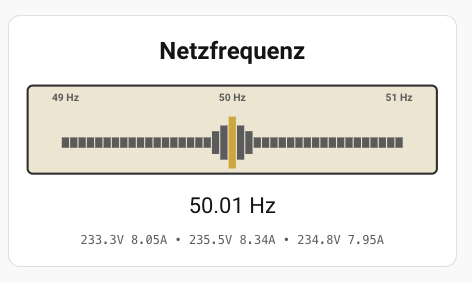
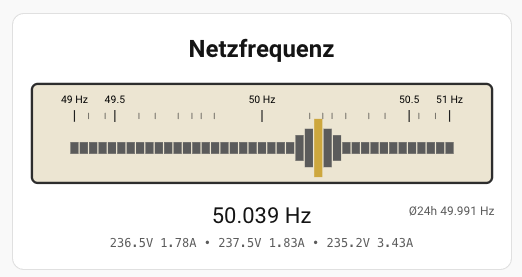
v0.4.3 add 24h frequency average display

diff --git a/reed-frequency-card.js b/reed-frequency-card.js
@@ -10,6 +10,12 @@
     - Einschwing-/Ausschwinganimation der Resonanz
 
  Changelog
+   v0.4.3
+    - 24h Mittelwert der Netzfrequenz als Referenzanzeige ergänzt
+    - Neue Konfigurationsoption average_entity hinzugefügt
+    - Aktuelle Frequenz bleibt mittig ausgerichtet
+    - 24h Durchschnitt rechtsbündig auf gleicher Höhe dargestellt
+    - Anzeige von Livewert und Mittelwert optisch harmonisiert
   v0.4.2
     - kleinere Fehlerkorrekturen
   v0.4.1
@@ -81,7 +87,7 @@
 ====================================================
 */
 
-const VERSION = "0.4.2";
+const VERSION = "0.4.3";
 
 /******************************************************************************
  * Frequenzbereich
@@ -182,11 +188,20 @@ class ReedFrequencyCard extends HTMLElement {
       throw new Error("show_phase_values muss true oder false sein!");
     }
 
+    if (
+      config.show_average !== undefined &&
+      typeof config.show_average !== "boolean"
+    ) {
+      throw new Error("show_average muss true oder false sein!");
+    }
+
     this.config = {
       title: "Netzfrequenz",
 
       show_version: true,
       show_phase_values: false,
+      average_entity: null,
+      show_average: true,
 
       voltage_l1: null,
       current_l1: null,
@@ -208,6 +223,20 @@ class ReedFrequencyCard extends HTMLElement {
   }
 
   renderCard(freq, hass) {
+    let avgFreq = null;
+
+    if (this.config.average_entity) {
+      const avgState = hass.states[this.config.average_entity];
+
+      if (avgState) {
+        const value = parseFloat(avgState.state);
+
+        if (!isNaN(value)) {
+          avgFreq = value;
+        }
+      }
+    }
+
     this.shadowRoot.innerHTML = `
       <style>
 
@@ -227,9 +256,25 @@ class ReedFrequencyCard extends HTMLElement {
         }
 
         .value{
-          text-align:center;
-          font-size:22px;
+          position:relative;
           margin-top:12px;
+          height:28px;
+        }
+
+        .current-frequency{
+          position:absolute;
+          left:50%;
+          transform:translateX(-50%);
+          font-size:22px;
+        }
+
+        .average-frequency{
+          position:absolute;
+          right:0;
+          top:50%;
+          transform:translateY(-50%);
+          font-size:12px;
+          color:#666666;
         }
 
         .phase-values{
@@ -258,7 +303,21 @@ class ReedFrequencyCard extends HTMLElement {
         ${this.renderInstrument(freq)}
 
         <div class="value">
-          ${freq.toFixed(3)} Hz
+
+          <span class="current-frequency">
+            ${freq.toFixed(3)} Hz
+          </span>
+
+        ${
+          this.config.show_average && avgFreq !== null
+            ? `
+          <span class="average-frequency">
+            Ø24h ${avgFreq.toFixed(3)} Hz
+          </span>
+          `
+            : ""
+        }
+
         </div>
         
         ${

diff --git a/README.md b/README.md
@@ -10,7 +10,7 @@ Analoges Reed Frequency Meter für Home Assistant zur Visualisierung der europä
 
 ## Status
 
-✅ Erste stabile Version (0.4.0)
+✅ Aktuelle Version: 0.4.3
 
 ---
 
@@ -18,74 +18,54 @@ Analoges Reed Frequency Meter für Home Assistant zur Visualisierung der europä
 
 Die **Reed Frequency Card** visualisiert die Netzfrequenz des europäischen Stromnetzes in Anlehnung an ein klassisches Reed Frequency Meter (Zungenfrequenzmesser).
 
-Die Resonanz der 41 Frequenzzungen wird als SVG-Grafik dargestellt. Die aktuell angeregte Zunge wird abhängig von der gemessenen Netzfrequenz hervorgehoben. Zusätzlich wird die Frequenz digital angezeigt.
+Die Resonanz der 41 Frequenzzungen wird als SVG-Grafik dargestellt. Die aktuell angeregte Zunge wird abhängig von der gemessenen Netzfrequenz hervorgehoben. Zusätzlich wird die Frequenz digital mit drei Nachkommastellen angezeigt.
+
+Die Skala ist für den Bereich 49 bis 51 Hz nichtlinear ausgeführt und bietet eine erhöhte Auflösung im Bereich um 50 Hz.
 
 Optional können die Spannungen und Ströme aller drei Netzphasen eingeblendet werden.
 
----
-
-## Technische Voraussetzungen
-
-- Home Assistant
-- HACS
-- SENEC Home V3 (getestet)
-- ABB EnFluRi Netzsensor (getestet)
-
-Aktuell werden folgende Sensoren verwendet:
-
-- Netzfrequenz
-- Spannung L1 / L2 / L3
-- Strom L1 / L2 / L3
+Zusätzlich kann ein 24-Stunden-Mittelwert der Netzfrequenz als Referenzwert angezeigt werden.
 
 ---
 
-## Datenquelle Netzfrequenz
+## 24h Mittelwert der Netzfrequenz
 
-Die aktuelle Netzfrequenz wird über die öffentliche API von **Netzfrequenzmessung.de** bezogen.
+Für die Anzeige des 24-Stunden-Mittelwertes wird ein Home-Assistant Statistik-Sensor verwendet.
 
-Die Messwerte werden als gleitender 3-Sekunden-Mittelwert bereitgestellt und alle drei Sekunden aktualisiert.
+Der Statistik-Sensor berechnet den linearen Durchschnitt der letzten 24 Stunden der Netzfrequenz.
 
-**API:**
+### Statistik-Helfer anlegen
 
-https://dat.netzfrequenzmessung.de:9080/frequenz.xml
+In Home Assistant:
 
-Die API liefert die Frequenz im XML-Format:
+**Einstellungen → Geräte & Dienste → Helfer → Helfer erstellen → Statistik**
 
-```xml
-<r>
-  <f>50.003</f>
-  <z>2026-08-12T07:45:18+00:00</z>
-</r>
+Einstellungen:
+
+| Einstellung | Wert |
+| --- | --- |
+| Name | Netzfrequenz Mittelwert 24h |
+| Entität | Netzfrequenz API |
+| Statistikmerkmal | Linearer Durchschnitt |
+| Stichprobengröße | 28800 |
+| Maximalalter | 24:00:00 |
+| Letzten Messwert behalten | deaktiviert |
+| Genauigkeit | 3 |
+
+Dadurch entsteht die Entität:
+
+```text
+sensor.netzfrequenz_mittelwert_24h
 ```
 
-Die Einbindung in Home Assistant erfolgt über einen REST-Sensor.
-
----
-
-## Home Assistant REST-Sensor
+Diese wird über `average_entity` in der Karte eingebunden.
 
 Beispiel:
 
 ```yaml
-rest:
-  - resource: https://dat.netzfrequenzmessung.de:9080/frequenz.xml
-    scan_interval: 3
-    sensor:
-      - name: Netzfrequenz API
-        unique_id: netzfrequenz_api
-        value_template: "{{ value_json.f }}"
-        unit_of_measurement: "Hz"
+average_entity: sensor.netzfrequenz_mittelwert_24h
+show_average: true
 ```
-
----
-
-## Installation
-
-1. Repository über HACS als benutzerdefiniertes Repository hinzufügen.
-2. Die Reed Frequency Card über HACS installieren.
-3. Home Assistant neu starten oder die Ressourcen neu laden.
-4. Einen REST-Sensor für die Netzfrequenz anlegen.
-5. Die Karte zum Dashboard hinzufügen.
 
 ---
 
@@ -97,48 +77,35 @@ type: custom:reed-frequency-card
 title: Netzfrequenz
 
 entity: sensor.netzfrequenz_api
+average_entity: sensor.netzfrequenz_mittelwert_24h
 
+show_average: true
 show_version: false
 show_phase_values: true
-
-voltage_l1: sensor.senec_enfluri_net_potential_p1
-current_l1: sensor.senec_enfluri_net_current_p1
-
-voltage_l2: sensor.senec_enfluri_net_potential_p2
-current_l2: sensor.senec_enfluri_net_current_p2
-
-voltage_l3: sensor.senec_enfluri_net_potential_p3
-current_l3: sensor.senec_enfluri_net_current_p3
 ```
 
 ---
 
 ## YAML Optionen
 
-| Option            | Beschreibung                       | Standard     |
-| ----------------- | ---------------------------------- | ------------ |
-| entity            | Frequenzsensor                     | erforderlich |
-| title             | Kartentitel                        | Netzfrequenz |
-| show_version      | Versionsnummer anzeigen            | true         |
-| show_phase_values | Spannungs- und Stromwerte anzeigen | false        |
-| voltage_l1        | Spannung Phase 1                   | -            |
-| current_l1        | Strom Phase 1                      | -            |
-| voltage_l2        | Spannung Phase 2                   | -            |
-| current_l2        | Strom Phase 2                      | -            |
-| voltage_l3        | Spannung Phase 3                   | -            |
-| current_l3        | Strom Phase 3                      | -            |
+| Option | Beschreibung | Standard |
+| --- | --- | --- |
+| entity | Frequenzsensor | erforderlich |
+| title | Kartentitel | Netzfrequenz |
+| average_entity | Sensor für den 24h Mittelwert | - |
+| show_average | 24h Mittelwert anzeigen | true |
+| show_version | Versionsnummer anzeigen | true |
+| show_phase_values | Spannungs- und Stromwerte anzeigen | false |
 
 ---
 
 ## Funktionen
 
 - Analoge Darstellung der Netzfrequenz
-- Live-Darstellung der europäischen Netzfrequenz
 - 41 Frequenzzungen als SVG
-- Digitale Frequenzanzeige
-- Optionaler Kartentitel
-- Optionale Anzeige der Spannungen und Ströme aller drei Phasen
-- Optionale Anzeige der Version
+- Digitale Frequenzanzeige mit drei Nachkommastellen
+- Nichtlineare Frequenzskala mit erhöhter Auflösung um 50 Hz
+- Anzeige des 24h Durchschnittswertes
 - Vollständig über YAML konfigurierbar
 
 ---

diff --git a/CHANGELOG.md b/CHANGELOG.md
@@ -1,5 +1,17 @@
 # Changelog
 
+## v0.4.3
+
+- 24h Mittelwert der Netzfrequenz als Referenzanzeige ergänzt
+- Neue Konfigurationsoption average_entity hinzugefügt
+- Aktuelle Frequenz bleibt mittig ausgerichtet
+- 24h Durchschnitt rechtsbündig auf gleicher Höhe dargestellt
+- Anzeige von Livewert und Mittelwert optisch harmonisiert
+
+## v0.4.2
+
+- kleinere Fehlerkorrekturen
+
 ## v0.4.1
 
 - Nichtlineare Frequenzskala für 49-51 Hz implementiert
